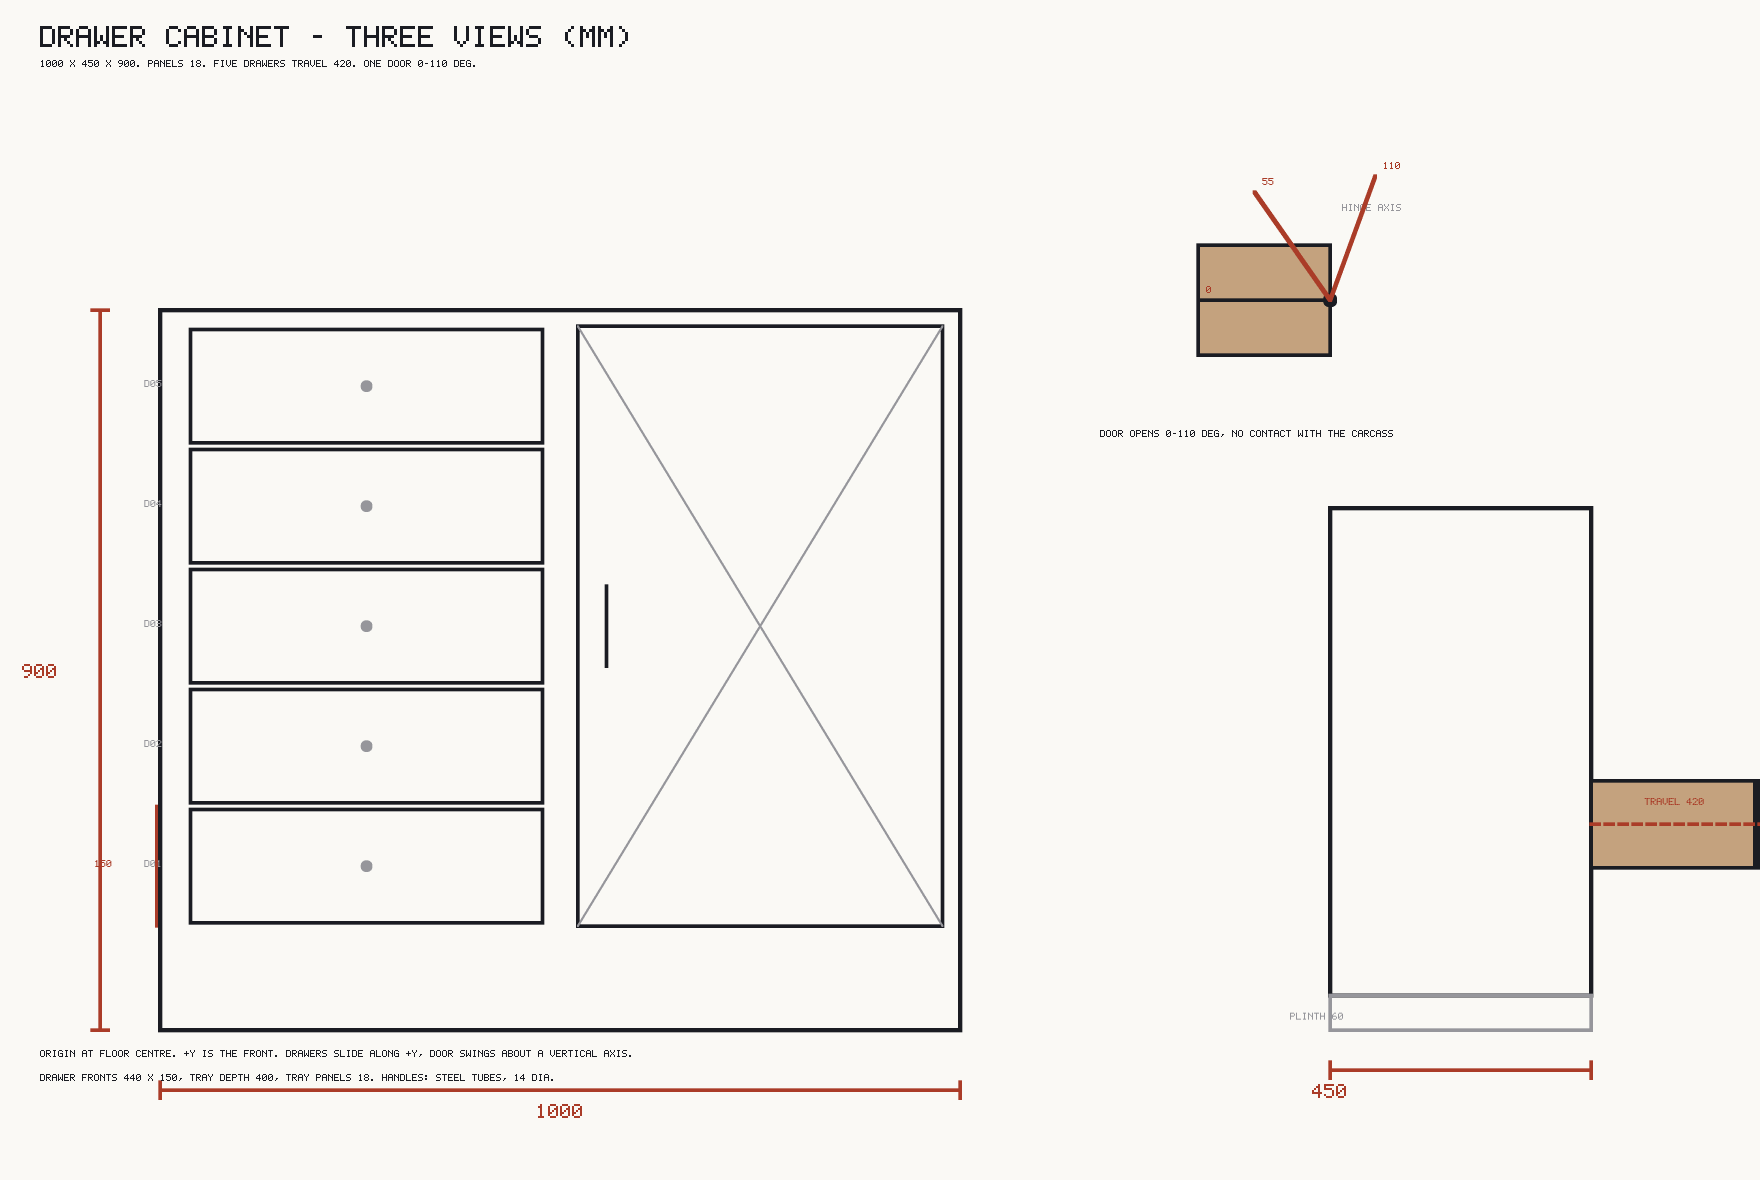
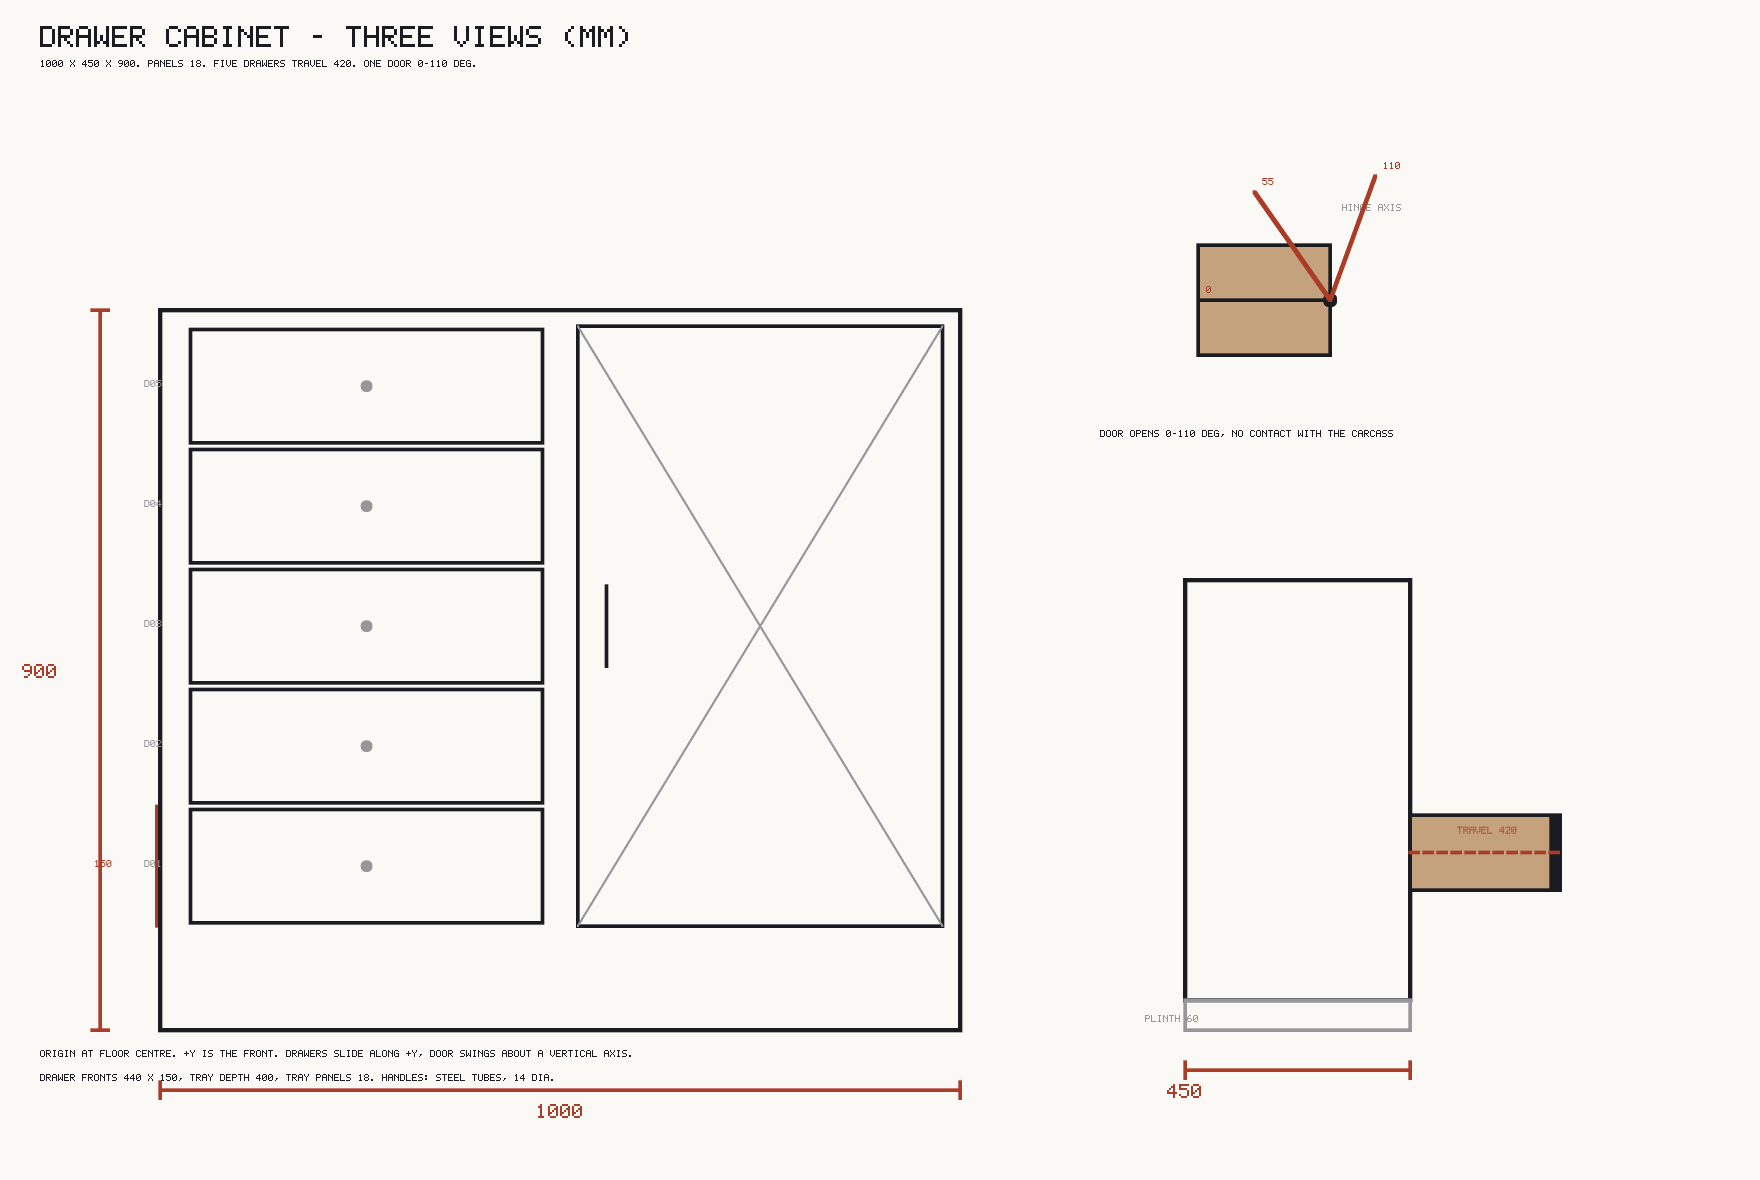
auto sync 2026-11-27 23:08:28

diff --git a/tasks/cua/drawer-cabinet/authoring/make_materials.py b/tasks/cua/drawer-cabinet/authoring/make_materials.py
@@ -99,7 +99,7 @@ def draw_three_views(path):
     c.text(40, 60, "1000 x 450 x 900. PANELS 18. FIVE DRAWERS TRAVEL 420. ONE DOOR 0-110 DEG.", 1, INK)
     s = 1.05
     front_view(c, 560, 1030, 0.80)
-    side_view(c, 1330, 1030, 0.58)
+    side_view(c, 1185, 1030, 0.50)
     door_detail(c, 1330, 300, 0.55)
     c.text(40, 1050, "ORIGIN AT FLOOR CENTRE. +Y IS THE FRONT. DRAWERS SLIDE ALONG +Y, DOOR SWINGS ABOUT A VERTICAL AXIS.", 1, INK)
     c.text(40, 1074, "DRAWER FRONTS 440 x 150, TRAY DEPTH 400, TRAY PANELS 18. HANDLES: STEEL TUBES, 14 DIA.", 1, INK)
